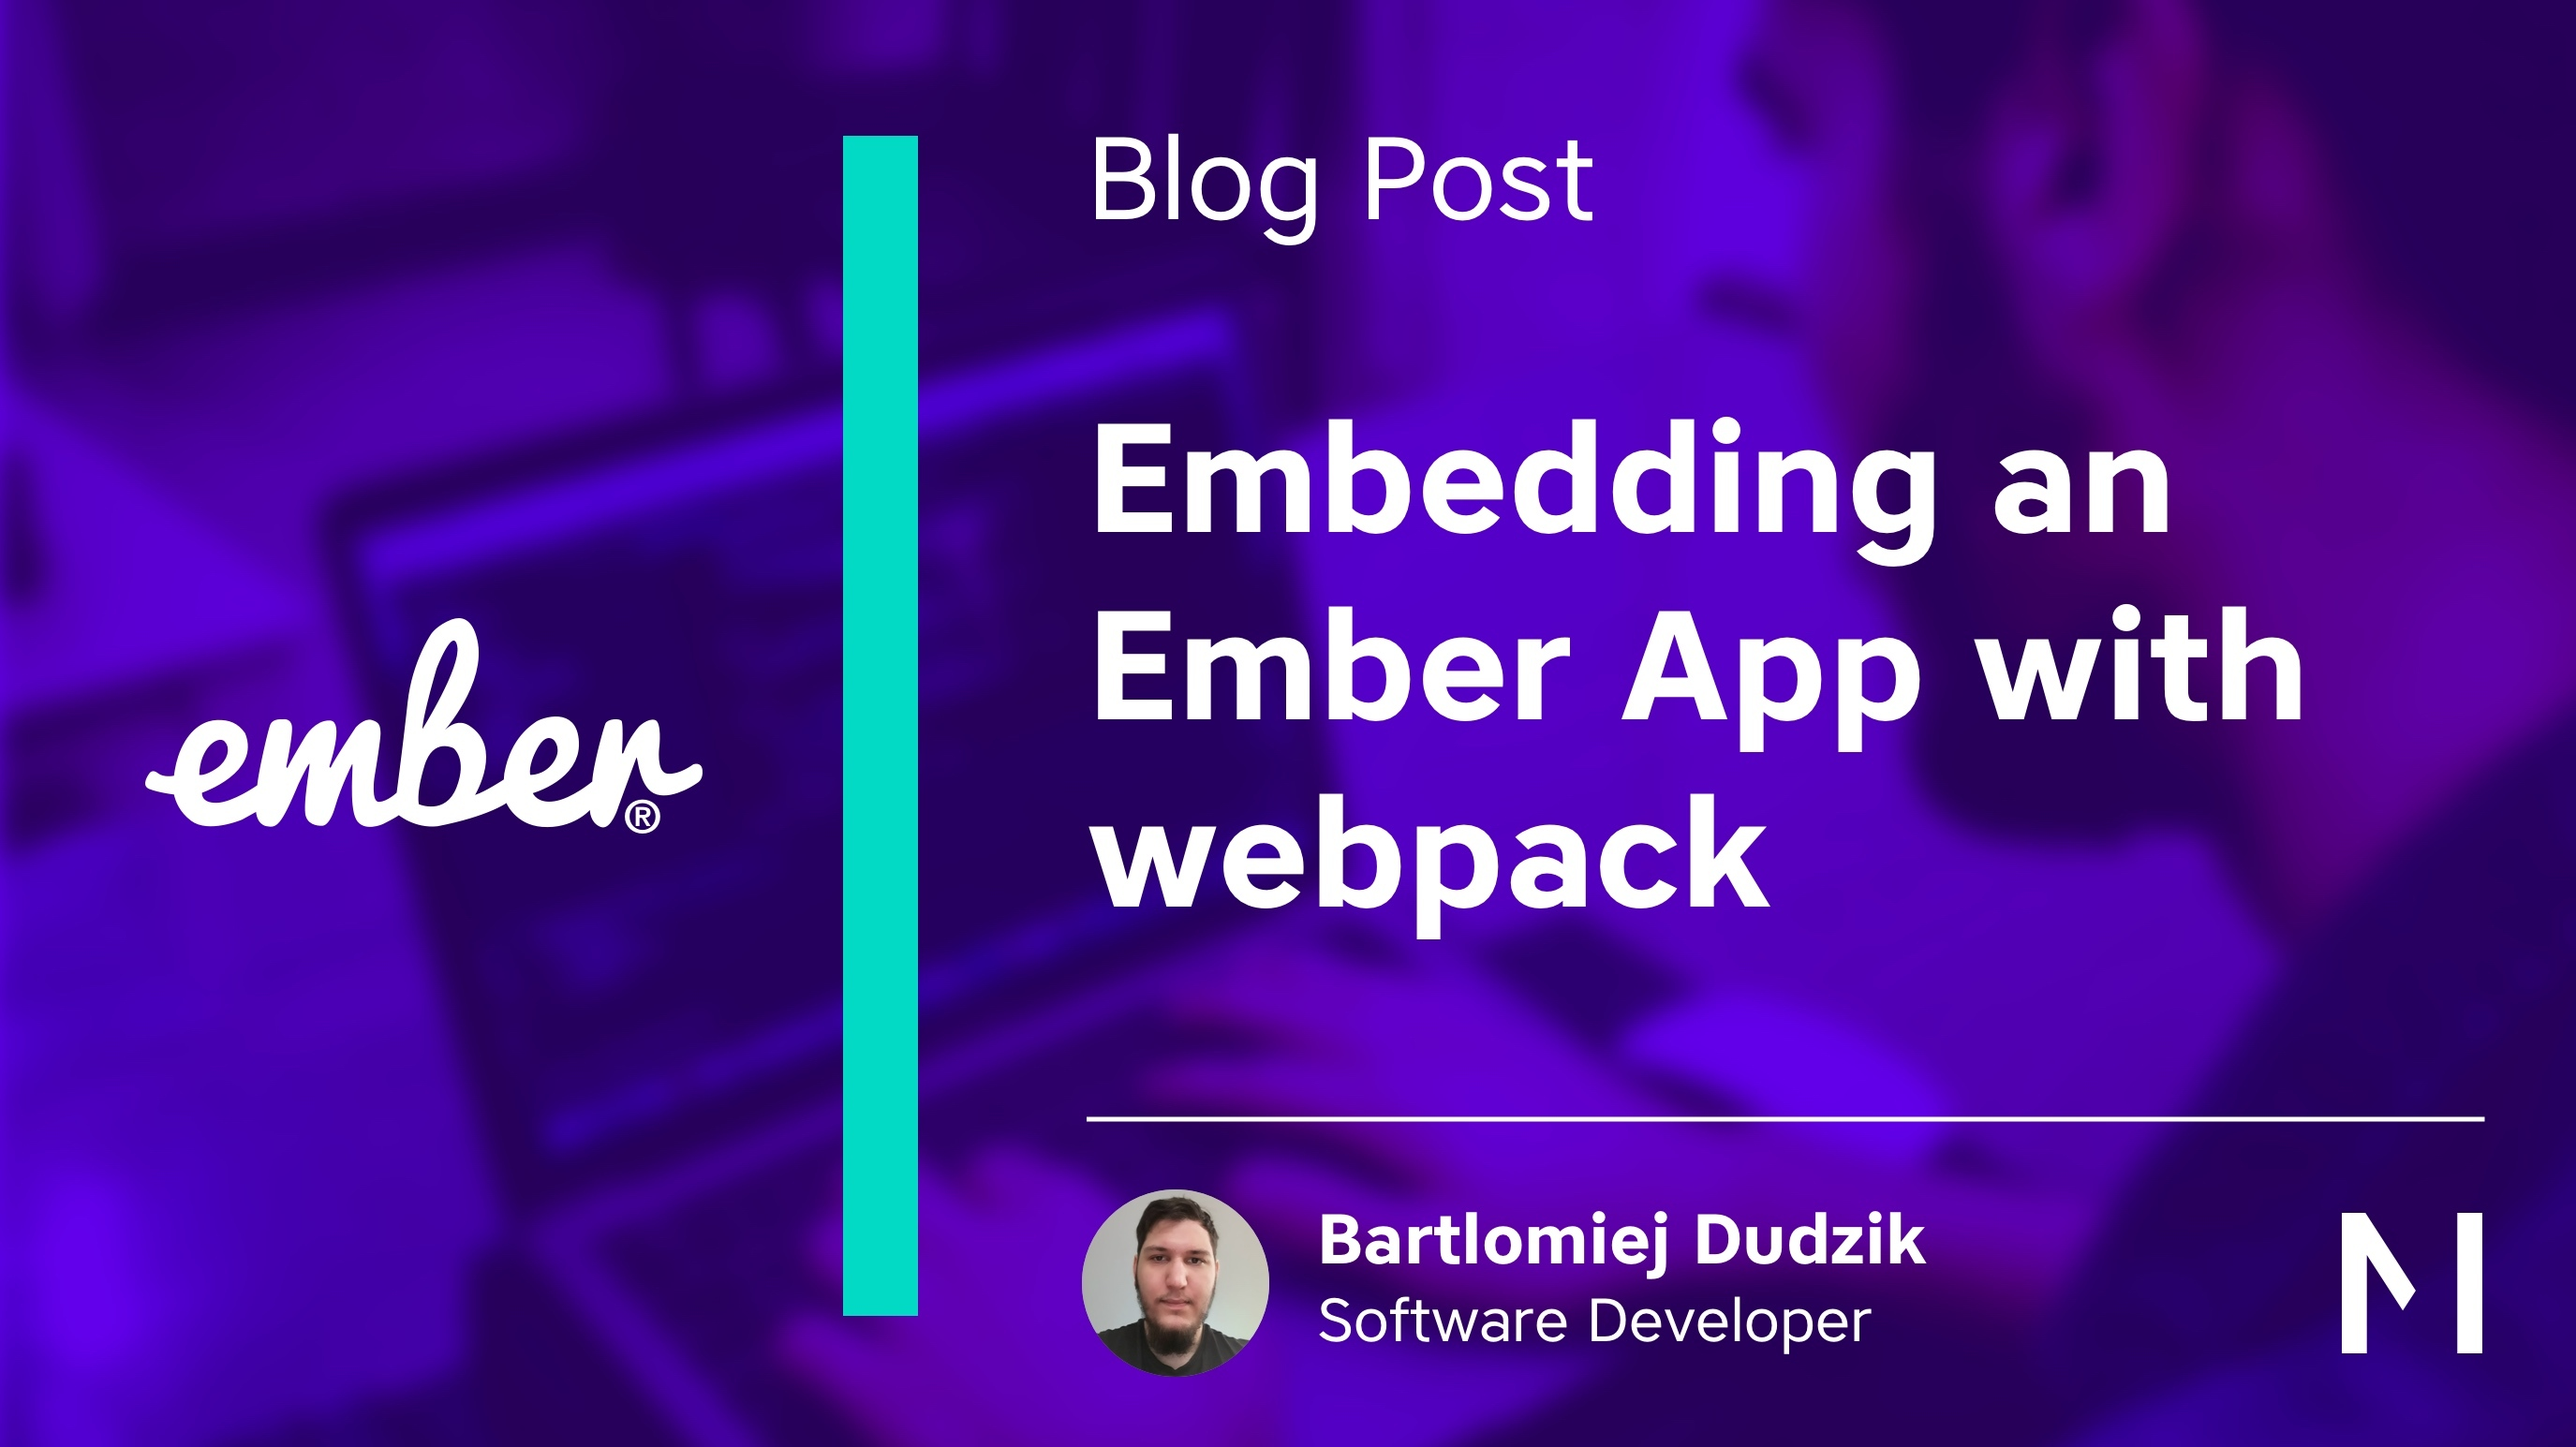
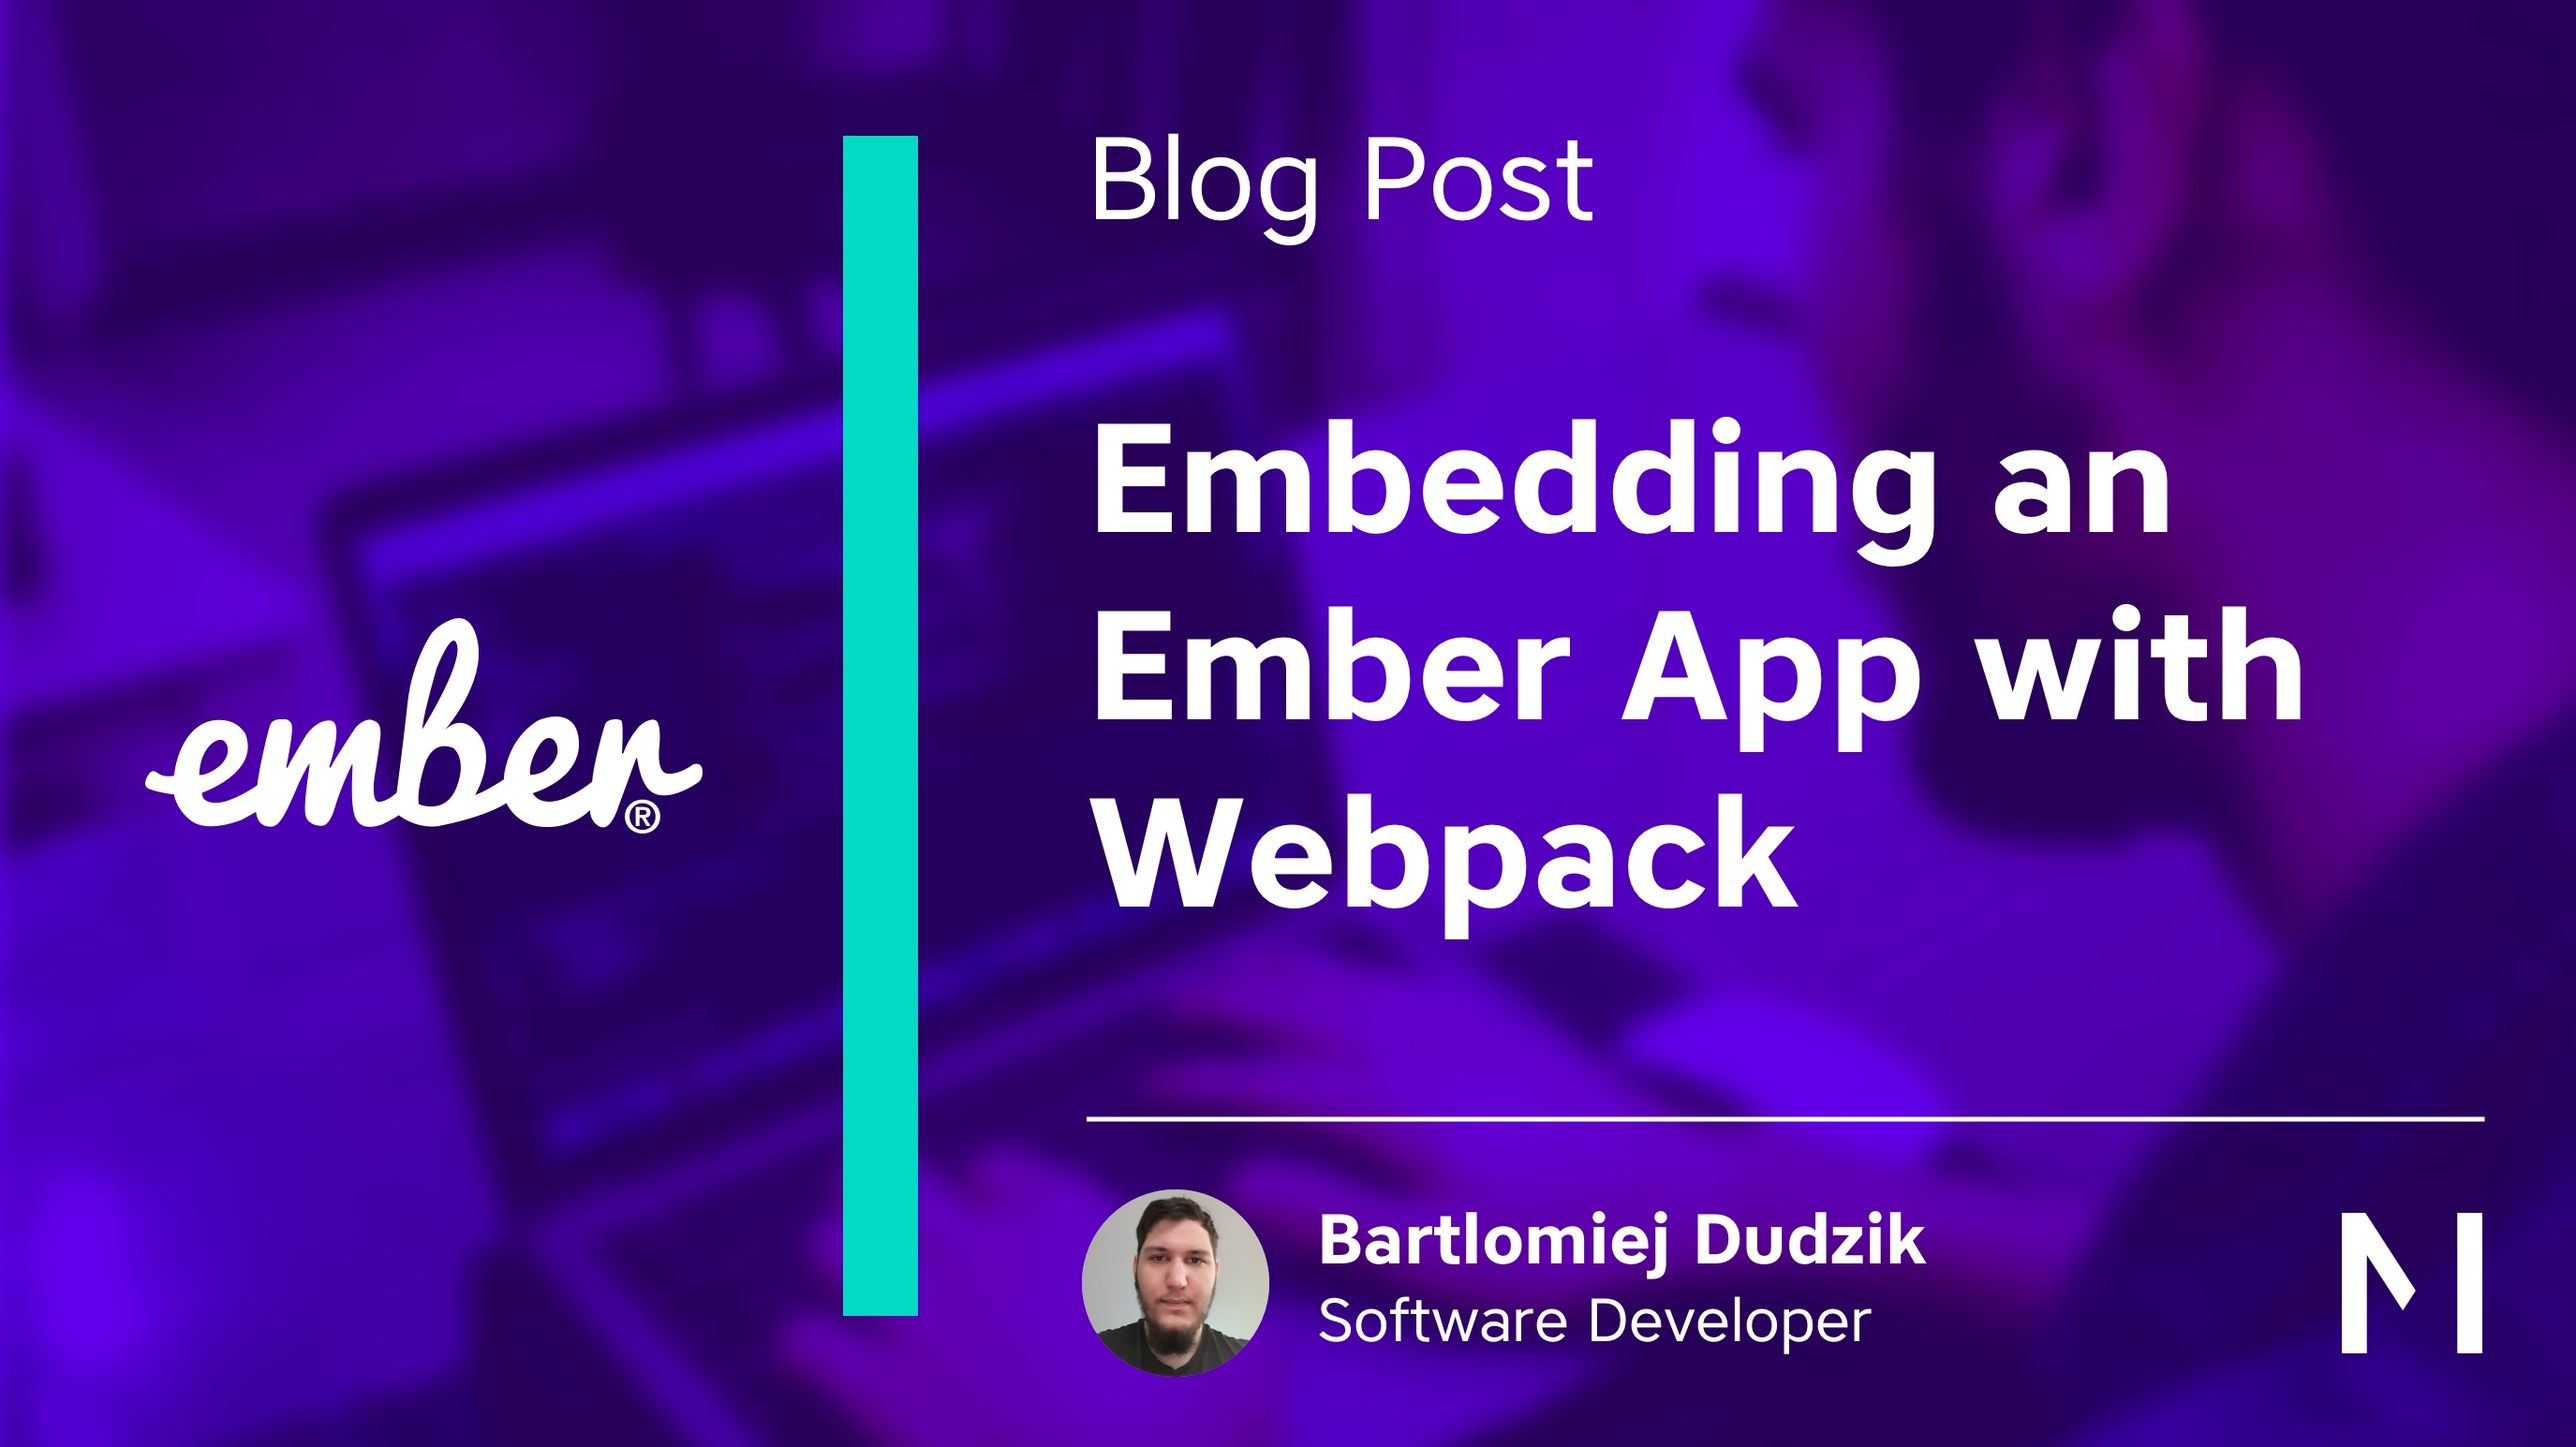
Fix upper case in title and og-image
Fix title With -> with
Fix og-image webpack -> Webpack

Changed region(s): [[0.4018, 0.5282, 0.7109, 0.6524]]

diff --git a/src/posts/2024-03-27-embeddable-ember-apps.md b/src/posts/2024-03-27-embeddable-ember-apps.md
@@ -1,5 +1,5 @@
 ---
-title: "Embedding an Ember App With Webpack"
+title: "Embedding an Ember App with Webpack"
 authorHandle: BobrImperator
 tags: [ember]
 bio: "Software Developer"
